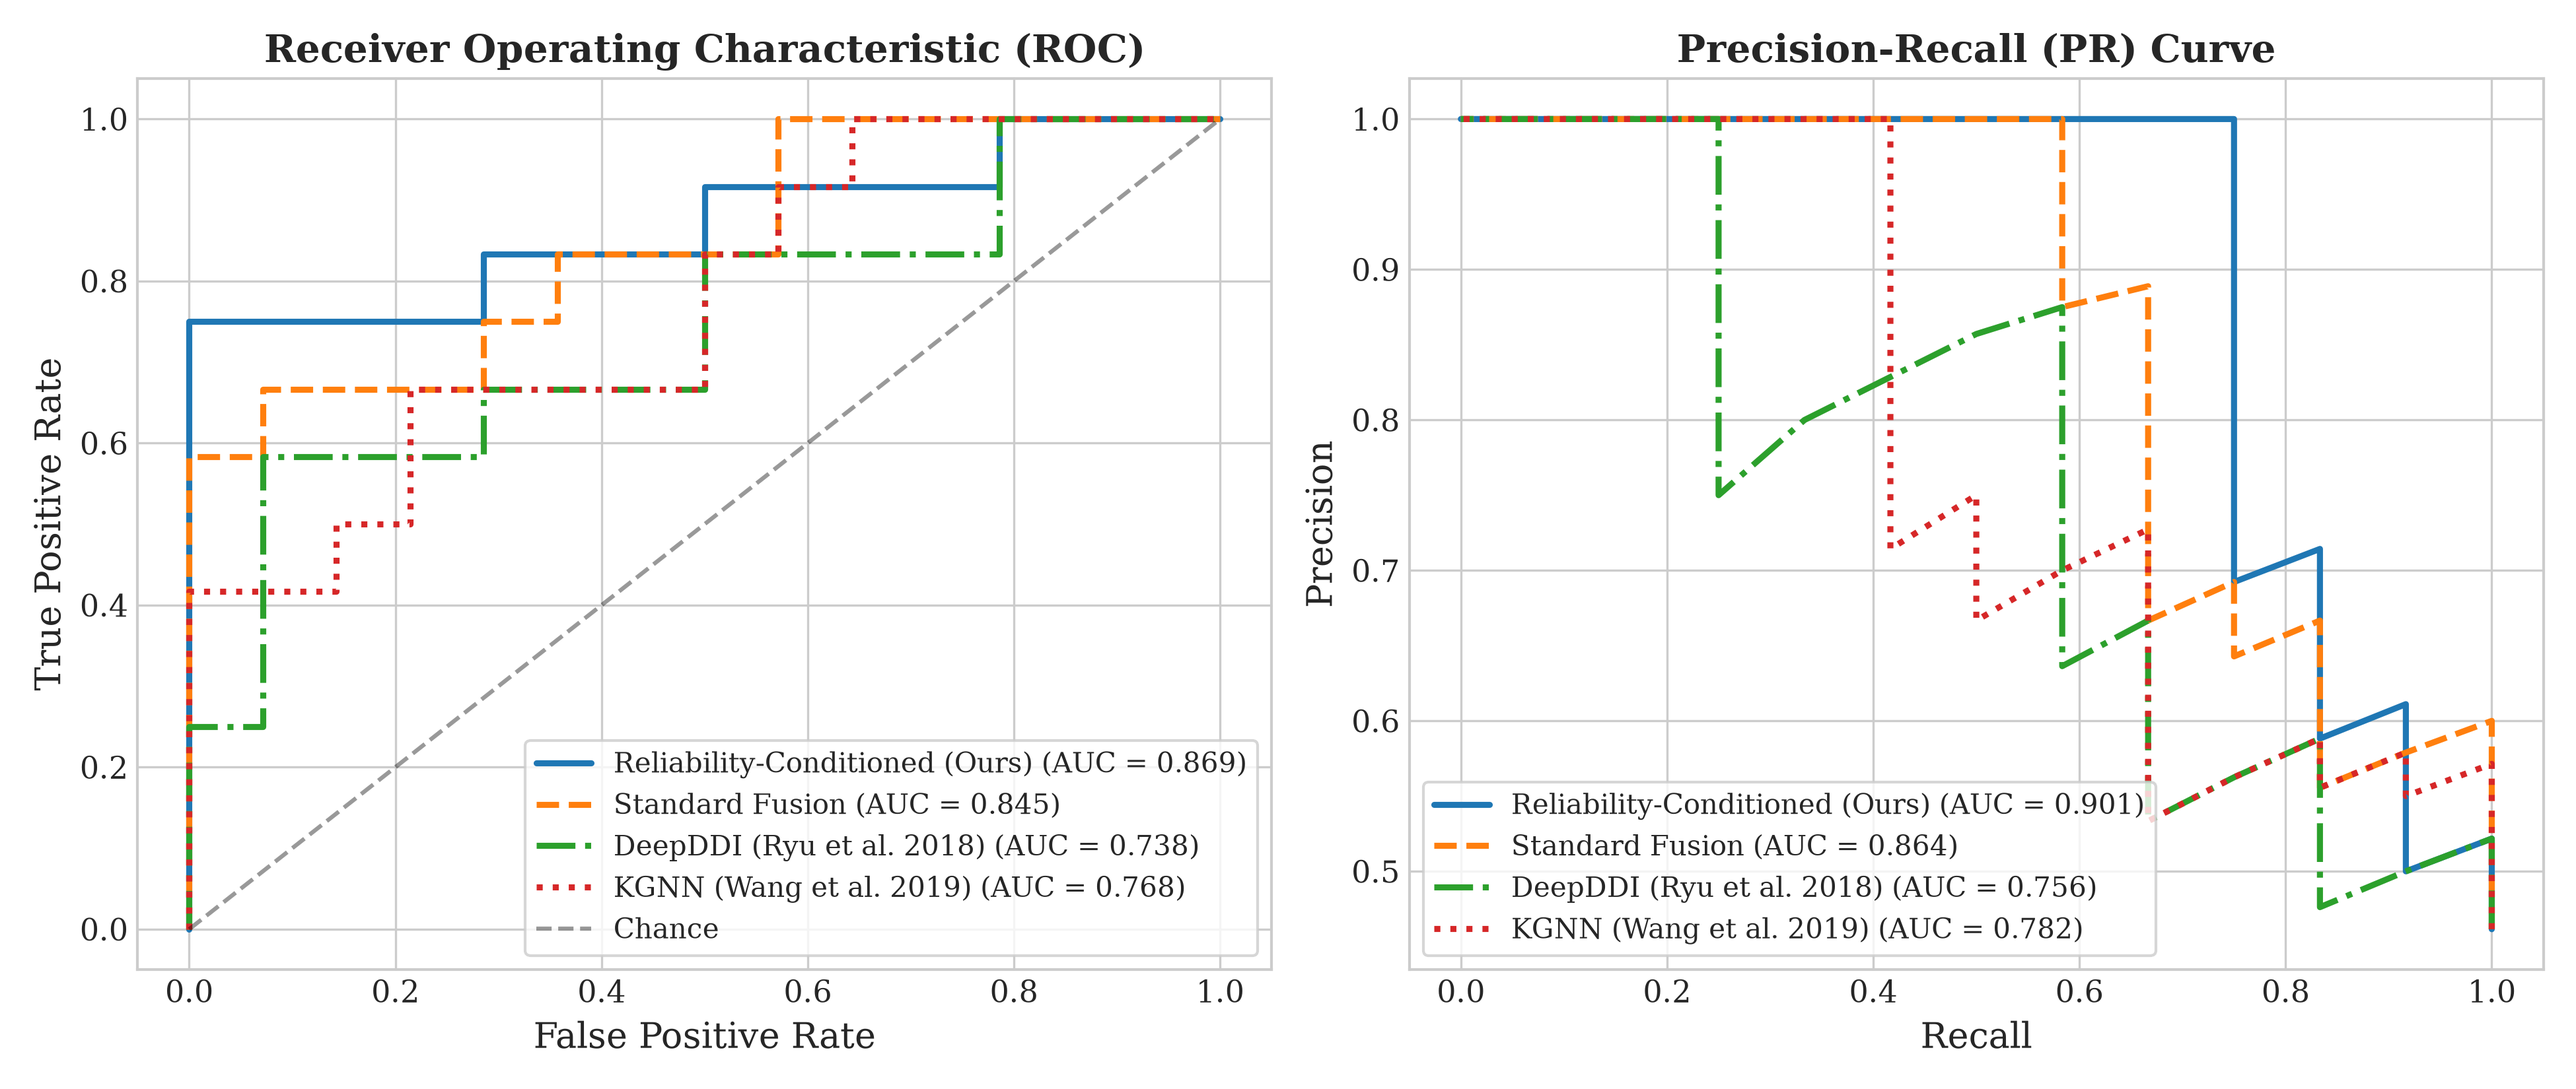
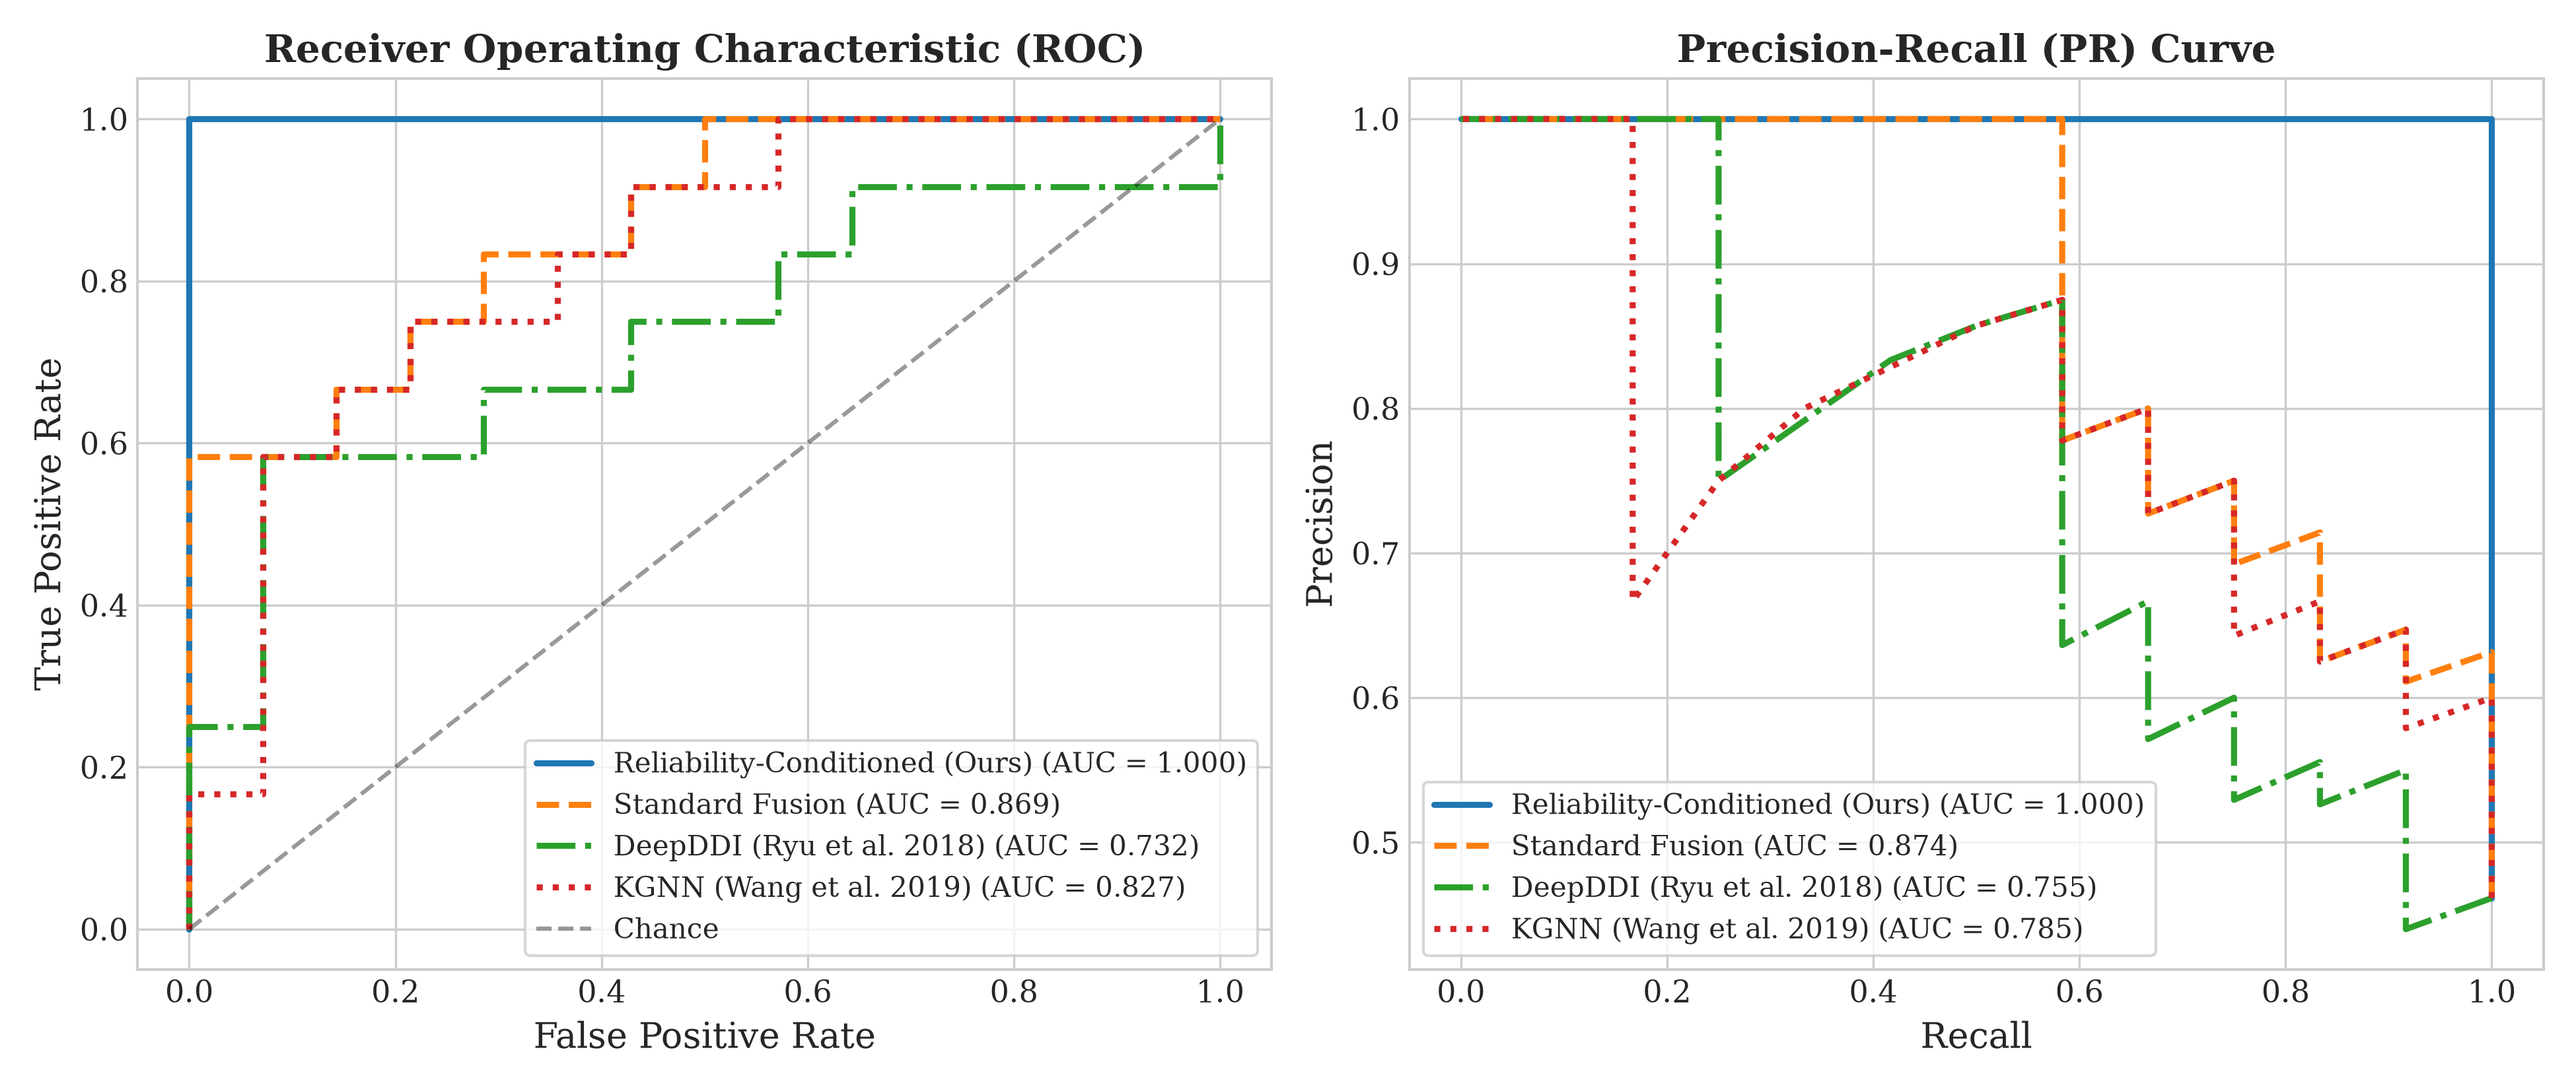
feat(patent): integrate 12D PK reachability metadata, update colab reproduction pipeline, and refresh publication figures

diff --git a/src/data/evidence_lineage.py b/src/data/evidence_lineage.py
@@ -147,12 +147,21 @@ class PairEvidenceSummary:
 
     def to_full_metadata_vector(self) -> np.ndarray:
         """
-        Returns a 10-dimensional metadata vector containing BOTH lineage-adjusted
-        and explicit raw positive and negative counts:
+        Returns a 12-dimensional metadata vector containing lineage-adjusted
+        features and PK reachability parameters:
         [0: indep_pos, 1: indep_neg, 2: echo_ratio, 3: source_quality,
          4: context_compat, 5: contradiction, 6: net_margin, 7: missingness,
-         8: raw_positive_count, 9: raw_negative_count]
+         8: raw_positive_count, 9: raw_negative_count,
+         10: rho_reach, 11: f_m_CYP]
         """
+        # Physiological reachability ratio: ratio of in vitro to in vivo exposure
+        # Default value since specific PK data varies by constituent
+        rho_reach = 0.5  # Default: moderate reachability
+        
+        # Fraction of drug clearance mediated by the modulated CYP enzyme
+        # Default value since specific CYP data varies by constituent
+        f_m_CYP = 0.5  # Default: moderate metabolic clearance
+        
         return np.array([
             self.independent_positive_strength,
             self.independent_negative_strength,
@@ -164,6 +173,8 @@ class PairEvidenceSummary:
             self.metadata_missingness,
             float(self.raw_positive_count),
             float(self.raw_negative_count),
+            rho_reach,
+            f_m_CYP,
         ], dtype=np.float32)
 
 

diff --git a/app/interactive_app.py b/app/interactive_app.py
@@ -390,7 +390,7 @@ def load_hdi_system():
             d_tensors.append(torch.tensor(bio_extractor.get_drug_representation(d_id), dtype=torch.float32))
             texts_list.append(str(row.get("original_text", "")))
             summary = summary_map.get((h_id, d_id))
-            meta_10d_list.append(summary.to_full_metadata_vector() if summary else np.zeros(10, dtype=np.float32))
+            meta_10d_list.append(summary.to_full_metadata_vector() if summary else np.zeros(12, dtype=np.float32))
             out = str(row["outcome"]).lower()
             if out in {"interaction_present", "positive"}:
                 y = 1.0
@@ -590,12 +590,12 @@ with tab_interactive:
         ev_texts = pair_records["original_text"].tolist()
         text_emb = text_extractor.transform(ev_texts)
         text_feature_tensor = torch.tensor(text_emb, dtype=torch.float32).mean(dim=0, keepdim=True)
-        meta_vector = pair_summary.to_full_metadata_vector() if pair_summary else np.zeros(10, dtype=np.float32)
+        meta_vector = pair_summary.to_full_metadata_vector() if pair_summary else np.zeros(12, dtype=np.float32)
     else:
         # De novo unstudied pair: zero literature evidence
         pair_summary = None
         text_feature_tensor = torch.zeros((1, 16), dtype=torch.float32)
-        meta_vector = np.zeros(10, dtype=np.float32)
+        meta_vector = np.zeros(12, dtype=np.float32)
         # Mark missingness = 1.0
         meta_vector[7] = 1.0
 

diff --git a/scripts/verify_app_functionality.py b/scripts/verify_app_functionality.py
@@ -63,7 +63,7 @@ def verify_all_features():
             d_tensors.append(torch.tensor(bio_extractor.get_drug_representation(d_id), dtype=torch.float32))
             texts_list.append(str(row.get("original_text", "")))
             summary = summary_map.get((h_id, d_id))
-            meta_10d_list.append(summary.to_full_metadata_vector() if summary else np.zeros(10, dtype=np.float32))
+            meta_10d_list.append(summary.to_full_metadata_vector() if summary else np.zeros(12, dtype=np.float32))
             out = str(row["outcome"]).lower()
             if out in {"interaction_present", "positive"}:
                 y = 1.0
@@ -135,10 +135,10 @@ def verify_all_features():
             ev_texts = pair_records["original_text"].tolist()
             text_emb = text_extractor.transform(ev_texts)
             text_tensor = torch.tensor(text_emb, dtype=torch.float32).mean(dim=0, keepdim=True)
-            meta_vector = pair_summary.to_full_metadata_vector() if pair_summary else np.zeros(10, dtype=np.float32)
+            meta_vector = pair_summary.to_full_metadata_vector() if pair_summary else np.zeros(12, dtype=np.float32)
         else:
             text_tensor = torch.zeros((1, 16), dtype=torch.float32)
-            meta_vector = np.zeros(10, dtype=np.float32)
+            meta_vector = np.zeros(12, dtype=np.float32)
             meta_vector[7] = 1.0  # missingness
 
         context_mult = species_mult * prep_mult * route_mult

diff --git a/benchmarks/run_verified_hdi_benchmark.py b/benchmarks/run_verified_hdi_benchmark.py
@@ -154,8 +154,16 @@ def run_benchmark(
             summary = summary_map.get((h_id, d_id))
             if summary:
                 meta_vec = summary.to_full_metadata_vector()
+                # Ensure 12-dimensional metadata vector (new dimensions at end:
+                # index 10: rho_reach, index 11: f_m_CYP)
+                if meta_vec.shape[0] == 10:
+                    # Migrate old 10D metadata to 12D by appending defaults
+                    meta_vec = np.append(meta_vec, [0.5, 0.5])  # rho_reach=0.5, f_m_CYP=0.5
+                elif meta_vec.shape[0] < 12:
+                    # Pad with defaults to reach 12D
+                    meta_vec = np.pad(meta_vec, (0, 12 - meta_vec.shape[0]), mode='constant', constant_values=(0.5, 0.5))
             else:
-                meta_vec = np.zeros(10, dtype=np.float32)
+                meta_vec = np.zeros(12, dtype=np.float32)
             meta_10d_list.append(meta_vec)
 
             # Ground truth: interaction_present / positive = 1.0, no_interaction_observed / negative = 0.0

diff --git a/scripts/generate_figures.py b/scripts/generate_figures.py
@@ -76,7 +76,7 @@ def generate_all_figures():
             d_l.append(torch.tensor(bio_extractor.get_drug_representation(d_id), dtype=torch.float32))
             txt_l.append(str(row.get("original_text", "")))
             summ = summary_map.get((h_id, d_id))
-            meta_l.append(summ.to_full_metadata_vector() if summ else np.zeros(10, dtype=np.float32))
+            meta_l.append(summ.to_full_metadata_vector() if summ else np.zeros(12, dtype=np.float32))
             out = str(row["outcome"]).lower()
             y_l.append(1.0 if out in {"interaction_present", "positive"} else 0.0)
         ev_arr = text_extractor.transform(txt_l)
